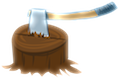
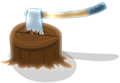
ax image modified, collision mechanism changed

diff --git a/game/player.js b/game/player.js
@@ -97,7 +97,7 @@ Player.prototype.update = function(ax, trees) {
         // Проверяем только деревья, с которыми еще не столкнулись:
         if (tree.collision === false){
             if (
-                (this.drawY + this.height >= tree.drawY && this.drawY <= tree.drawY + tree.height) &&
+                (this.drawY + this.height >= tree.drawY + 105 && this.drawY + 45 <= tree.drawY + tree.height) &&
                 (this.drawX + this.width >= tree.drawX && this.drawX <= tree.drawX + tree.width)
             ) {
                 this.health -= 10;
@@ -107,9 +107,9 @@ Player.prototype.update = function(ax, trees) {
             }
 
             if (this.drawX + this.width >= ax.drawX &&  // игрок касается топора слева
-                this.drawY + this.height >= ax.drawY && // игрок касается топора сверху
+                this.drawY + this.height >= ax.drawY + 45 && // игрок касается топора сверху
                 this.drawX <= ax.drawX + ax.width &&    // игрок касается топора справа
-                this.drawY <= ax.drawY + ax.height) {   // игрок касается топора снизу
+                this.drawY + 45 <= ax.drawY + ax.height) {   // игрок касается топора снизу
                 // win.draw();
                 document.getElementById('gameName').innerHTML = 'Congratulations! You win!';
                 this.win = true;

diff --git a/game/index.html b/game/index.html
@@ -16,10 +16,10 @@
         <!-- Canvas — это элемент HTML5, который позволяет рисовать графику на JavaScript. Сanvas можно использовать для текста, изображений, графики, видео, аудио, нарисовать прямоугольники, линии, градиенты и другие эффекты -->
         <canvas id="map"></canvas>
         <canvas id="trees"></canvas>
+        <canvas id="ax"></canvas>
         <canvas id="player"></canvas>
         <canvas id="bear"></canvas>
         <canvas id="stats"></canvas> <!-- канвас, отвечающий за выведение информации об игроке -->
-        <canvas id="ax"></canvas>
         <!-- <canvas id="win"></canvas>
         <canvas id="gameOver"></canvas> -->
         <input id="drawButton" type="button" value="Draw">

diff --git a/game/ax.js b/game/ax.js
@@ -12,7 +12,7 @@ function Ax(gameHeight, gameWidth) {
     this.drawX = this.startPosition;
     this.drawY = this.randomPosition;
     this.width = 120; 
-    this.height = 79;
+    this.height = 83;
     this.speed = 5;
 
     // Добавляем свойства игры для доступа из методов Ax:
